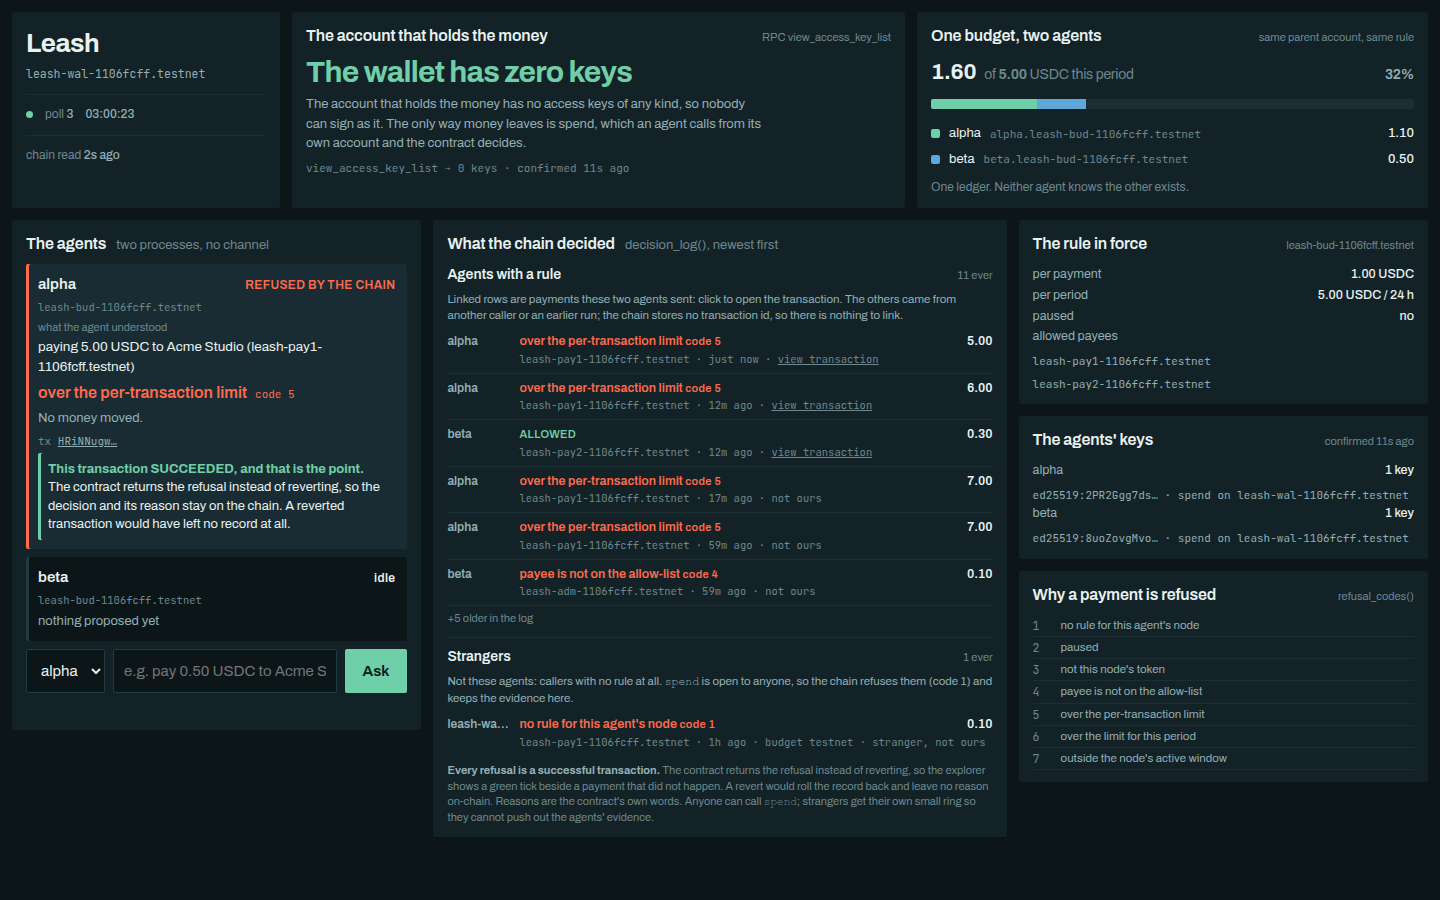
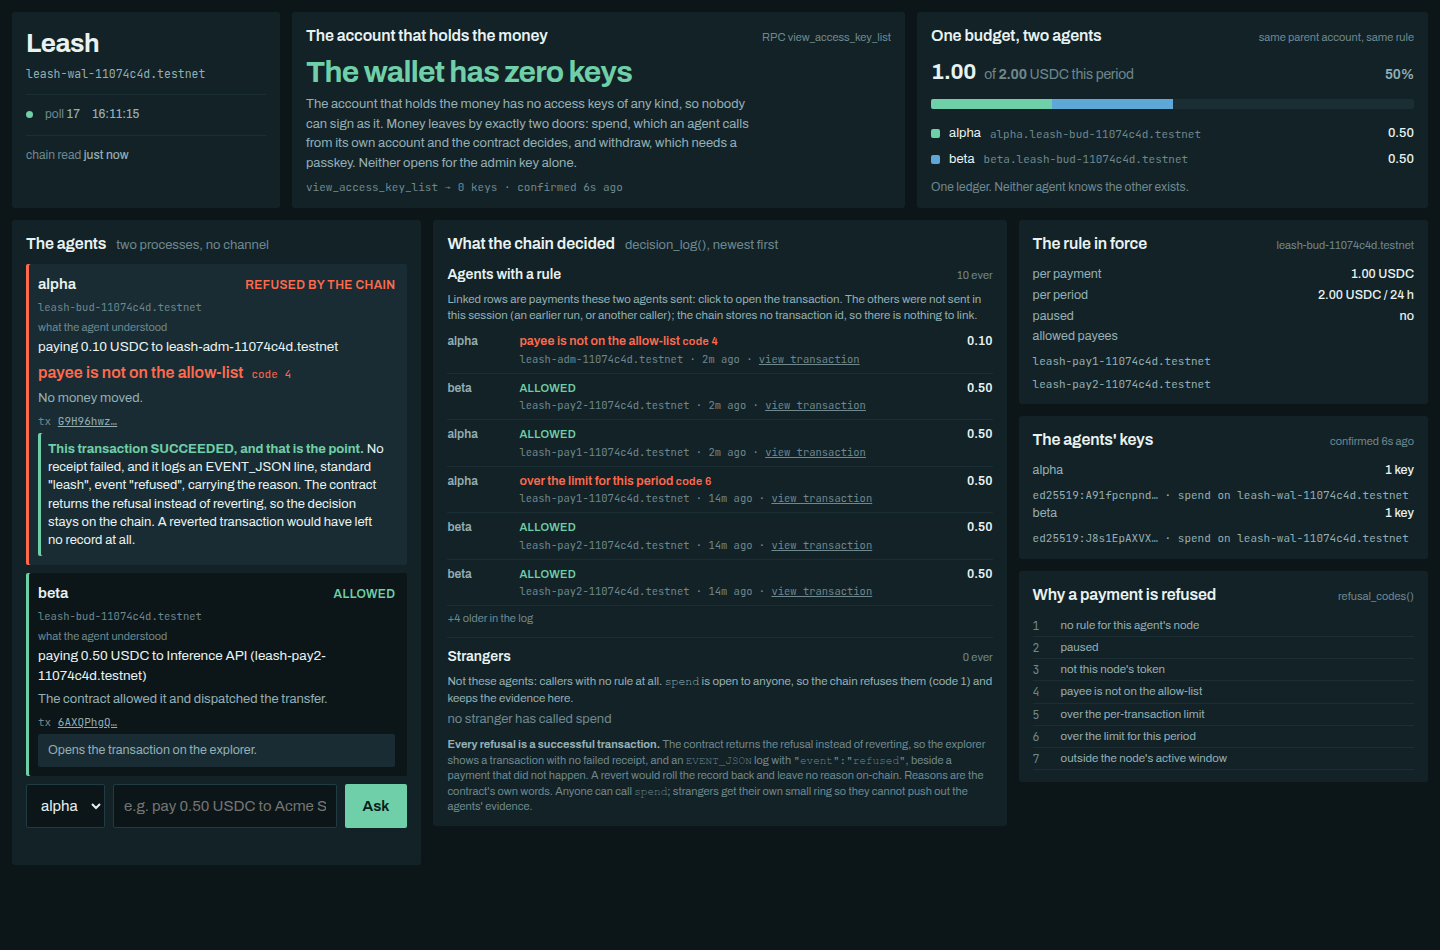
feat: deploy to testnet with a real device passkey as credential zero
Replaces the rehearsal record with a live deployment (ids ending 11074c4d):
eight accounts, the NEP-141 test token, the wallet contract, two agent
accounts holding nothing but a function-call key restricted to `spend` on
the wallet, and a wallet frozen with no access keys of any kind.

The first credential is a real passkey from a laptop authenticator, and it
had to be: only the bootstrap registration is admin-alone, so a software
key registered first would have made "the admin key cannot widen a rule" a
claim the chain contradicts. The second is a software recovery credential,
registered with a signature from the device, which is what a stolen admin
key cannot produce.

The seven scripted beats were driven against this deployment before the
freeze, and every one came out as demo-beats.json says: 0.50 allowed, code
4 for a payee off the list, code 5 over the per-transaction limit, three
more allowed, then code 6 once the period was spent. preflight passes all
17 checks.

Also corrects a claim the chain does not back. Five documents and the
dashboard itself said a refusal leaves a `leash: refused` log; the contract
emits NEP-297, so what is actually there is an EVENT_JSON line whose
standard is "leash" and whose event is "refused". A judge following the
explorer link would have searched for a string that is not in it, and the
demo script put those words in the narrator's mouth on camera. Screenshots
re-taken, explorer links re-pointed.
[…]

diff --git a/web/demo.html b/web/demo.html
@@ -242,7 +242,7 @@ body { margin:0; background:var(--ground); color:var(--ink); font-family:var(--s
           <div id="strangers"><div class="empty">no stranger has called spend</div></div>
         </div>
         <div class="foot">
-          <b>Every refusal is a successful transaction.</b> The contract returns the refusal instead of reverting, so the explorer shows a transaction with no failed receipt, and a <code>leash: refused</code> log, beside a payment that did not happen. A revert would roll the record back and leave no reason on-chain. Reasons are the contract's own words. Anyone can call <code>spend</code>; strangers get their own small ring so they cannot push out the agents' evidence.
+          <b>Every refusal is a successful transaction.</b> The contract returns the refusal instead of reverting, so the explorer shows a transaction with no failed receipt, and an <code>EVENT_JSON</code> log with <code>"event":"refused"</code>, beside a payment that did not happen. A revert would roll the record back and leave no reason on-chain. Reasons are the contract's own words. Anyone can call <code>spend</code>; strangers get their own small ring so they cannot push out the agents' evidence.
         </div>
       </section>
     </div>

diff --git a/README.md b/README.md
@@ -10,7 +10,7 @@ should show: [`docs/demo-script.md`](docs/demo-script.md).
 
 ## If you click a transaction link: a refusal is a successful transaction
 
-When Leash refuses a payment, the explorer shows a transaction that succeeded: no failed receipt, and a `leash: refused` log carrying the decision. That is correct and deliberate. The links in this project open [near.rocks](https://testnet.near.rocks), which shows every receipt with its logs and needs no browser gate.
+When Leash refuses a payment, the explorer shows a transaction that succeeded: no failed receipt, and a NEP-297 log (`EVENT_JSON:` with `"standard":"leash"` and `"event":"refused"`) carrying the decision. That is correct and deliberate. The links in this project open [near.rocks](https://testnet.near.rocks), which shows every receipt with its logs and needs no browser gate.
 The contract answers a refused `spend` with `{"status":"refused","code":4,"reason":"payee is not
 on the allow-list"}` and returns normally, instead of panicking. A panic makes NEAR roll the whole
 transaction back, including the record of why, and the chain would be left with a failed
@@ -20,18 +20,15 @@ transaction's logs. Each refusal code has a test that asserts all three things a
 transaction succeeded, no balance moved, the recorded decision names the code); they are in the
 table below, under "Payments".
 
-Live examples, from the rehearsal deployment (account ids end in `1106fcff`), on testnet:
+Live examples from the deployment in this repo (account ids end in `11074c4d`), on testnet:
 
-- the wallet: [leash-wal-1106fcff.testnet](https://testnet.near.rocks/account/leash-wal-1106fcff.testnet) (0 access keys, contract deployed)
-- an allowed payment: [8USjMTU…9Whz](https://testnet.near.rocks/tx/8USjMTUSFsLvuCfrVVqcWQE2pyfp2QnusZxN92YE9Whz), log `leash: allowed`, then `ft_transfer` runs on the token
-- a refused payment: [4o9CKTQ…7qEp](https://testnet.near.rocks/tx/4o9CKTQcvQmxfFtCAjoQAseDkb4HV65fom6NH2ZH7qEp), log `leash: refused`, return value `{"status":"refused","code":4,"reason":"payee is not on the allow-list"}`, and no `ft_transfer` receipt
+- the wallet: [leash-wal-11074c4d.testnet](https://testnet.near.rocks/account/leash-wal-11074c4d.testnet) (0 access keys, contract deployed)
+- an allowed payment: [Hxm5Hhv…8rAL](https://testnet.near.rocks/tx/Hxm5Hhv1sHnqcwGkso43C7XLXzLApb3ZN3jJnzsP8rAL), an `EVENT_JSON` log with `"event":"allowed"`, then `ft_transfer` runs on the token, then a second log with `"event":"settled"`
+- a refused payment: [Avw594N…L3de](https://testnet.near.rocks/tx/Avw594NmkuKuBHvUj8xnU9oVeMBrZd3j7f33dddZL3de), an `EVENT_JSON` log with `"event":"refused"`, return value `{"status":"refused","code":4,"reason":"payee is not on the allow-list"}`, and no `ft_transfer` receipt
 
-<!-- NOTE FOR THE AUTHOR: these three links point at the REHEARSAL deployment (1106fcff). Re-point them at the fresh deployment's wallet, one allowed and one refused transaction before submitting, and drop the "rehearsal" sentence above. -->
 
-What the dashboard looks like, captured on the same rehearsal deployment (a refusal beside the shared
-budget bar, then a refusal and an allowed payment from the two agents). These were taken before two
-wording fixes: the wallet-keys sentence now says money leaves by two doors, `spend` and `withdraw`,
-and the footnote now says the explorer shows a transaction with no failed receipt rather than a green tick.
+What the dashboard looks like, captured on the deployment above: the shared budget bar with a
+refusal beside it, then the two agents' cards, one refused and one allowed.
 
 ![A refused payment and the budget bar](docs/screenshot-refusal-and-budget.png)
 ![A refusal and an allowed payment from the two agents](docs/screenshot-refused-and-allowed.png)
@@ -268,13 +265,13 @@ scripts/preflight.sh                   # READY to record, or a list of what is w
 
 `docs/demo-script.md` has the beats, the exact words to type, and what each should show. The
 sentences the agents accept are a closed grammar; the verified ones are in `docs/safe-phrasings.md`.
-`deployments/testnet.json` is not a deployment you can run this against. It is the frozen record of
-the dress-rehearsal deployment (ids ending `044127`): the wallet has no keys, it runs older contract
-code, and both registered credentials are software P-256 keys made for the rehearsal, not a phone's
-passkey. `reset-demo.sh` and `preflight.sh` will fail against it, by design. You can read it, and look
-up its public accounts on near.rocks; you cannot reset, widen or drive it. The recording needs a fresh
-deployment ("Setting up a deployment" in the demo script). The links above point at an earlier
-rehearsal (`1106fcff`), not at this one.
+`deployments/testnet.json` records the live deployment the links above point at (ids ending
+`11074c4d`): the wallet is frozen with no access keys of any kind, credential sequence 0 is a real
+device passkey (Chrome on macOS, Touch ID) and sequence 1 is a software recovery credential
+registered with a signature from the device. It holds public account ids and nothing else, so you
+can read it and look up every account and transaction on near.rocks, but you cannot drive it:
+widening needs that passkey and everything else needs the admin key. To run the demo yourself,
+make your own deployment ("Setting up a deployment" in the demo script).
 
 ## Deliberately not built
 

diff --git a/docs/demo-script.md b/docs/demo-script.md
@@ -82,7 +82,7 @@ Type to **alpha**: `pay Acme 0.50 USDC`
 
 Expect: the card shows "paying 0.50 USDC to Acme Studio" first (what the agent understood, before
 anything is sent), then ALLOWED. The budget bar moves to 0.50 of 2.00, and the decision row has a
-transaction link. Open it (near.rocks): the log reads `leash: allowed`, the receipts include `ft_transfer` on the token, and Acme's
+transaction link. Open it (near.rocks): the log is an `EVENT_JSON` line with `"event":"allowed"`, the receipts include `ft_transfer` on the token, and Acme's
 balance went up.
 
 ## Beat 2: payments the chain refuses
@@ -90,13 +90,13 @@ balance went up.
 Type to **alpha**: `send 0.10 USDC to {admin}` (the real admin account, from `deployments/testnet.json`)
 
 Expect: REFUSED, code 4, "payee is not on the allow-list". Say the next sentence slowly:
-**the transaction succeeded.** Open the link: no receipt failed, and the log reads `leash: refused` with code 4. The contract returned the refusal instead
+**the transaction succeeded.** Open the link: no receipt failed, and the log is an `EVENT_JSON` line with `"event":"refused"` and code 4. The contract returned the refusal instead
 of reverting, because a revert would roll back the record and leave nothing on chain saying why.
 No money moved; the budget bar is still 0.50.
 
 Type to **alpha**: `pay Acme 7.00 USDC`
 
-Expect: REFUSED, code 5, "over the per-transaction limit". Again no failed receipt and a `leash: refused` log with code 5, and again the bar
+Expect: REFUSED, code 5, "over the per-transaction limit". Again no failed receipt and an `EVENT_JSON` log with `"event":"refused"` and code 5, and again the bar
 has not moved.
 
 ## Beat 3: one budget, two agents

diff --git a/docs/architecture.md b/docs/architecture.md
@@ -43,7 +43,7 @@ agent ──spend(token, payee, amount)──▶ wallet
 A refusal is a **successful transaction** that records the decision and returns it. If the
 contract panicked, NEAR would roll the transaction back, including the record of why, and the
 chain would hold a failed transaction and no explanation. So an explorer shows a transaction with no failed receipt, and a
-`leash: refused` log, next to a payment that did not happen; the page says so beside every refusal. The same applies to the
+`EVENT_JSON` log with `"event":"refused"`, next to a payment that did not happen; the page says so beside every refusal. The same applies to the
 allowed path in a different way: NEAR rolls back per receipt, not per transaction, so a
 transaction-level failure after `ft_transfer` ran does not mean no money moved, and the agent
 never says it does without reading the receipts.
